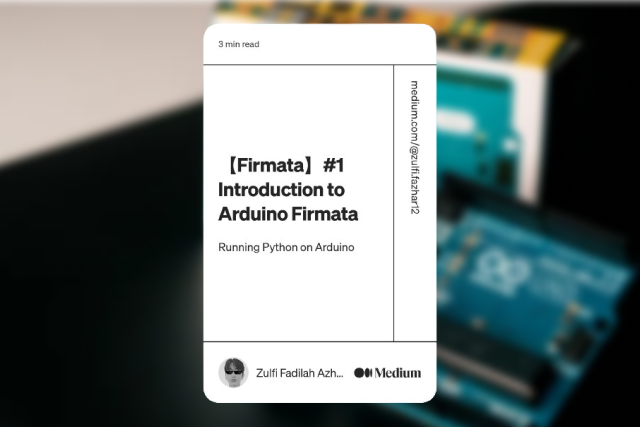
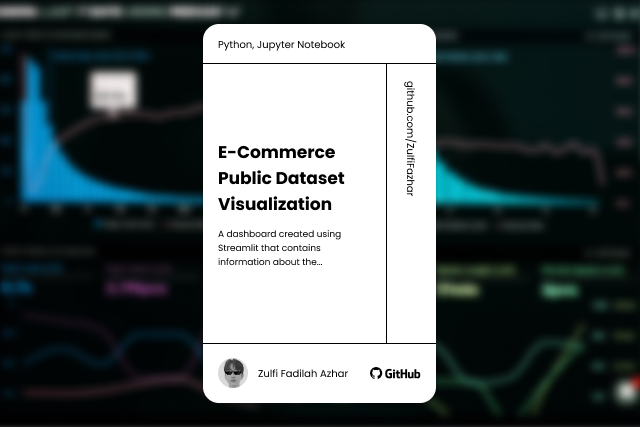
feat: Add Content

diff --git a/index.html b/index.html
@@ -60,7 +60,7 @@
 
             <!-- article 1 -->
             <article class="articles__card">
-              <img src="assets/img/project1.png" alt="" class="articles__img" />
+              <img src="assets/img/Article1.png" alt="" class="articles__img" />
 
               <a href="https://medium.com/@zulfi.fazhar12/cool-way-to-shutdown-your-pc-6532bc555816" target="_blank" class="articles__modal">
                 <div>
@@ -72,7 +72,7 @@
 
             <!-- article 2 -->
             <article class="articles__card">
-              <img src="assets/img/project2.png" alt="" class="articles__img" />
+              <img src="assets/img/Article2.png" alt="" class="articles__img" />
 
               <a href="https://medium.com/@zulfi.fazhar12/firmata-1-introduction-to-arduino-firmata-b4e78654bbaa" target="_blank" class="articles__modal">
                 <div>
@@ -88,24 +88,25 @@
           <div class="projects__content grid" data-content id="projects">
             <!-- project 1 -->
             <article class="articles__card">
-              <img src="assets/img/project1.png" alt="" class="articles__img" />
+              <img src="assets/img/Project1.png" alt="" class="articles__img" />
 
-              <a href="https://medium.com/@zulfi.fazhar12/cool-way-to-shutdown-your-pc-6532bc555816" target="_blank" class="articles__modal">
+              <a href="https://github.com/ZulfiFazhar/Money-Management.git" target="_blank" class="articles__modal">
                 <div>
-                  <span class="articles__subtitle">Medium</span>
-                  <h3 class="articles__title">A cool way to Shutdown your pc</h3>
+                  <span class="articles__subtitle">GitHub</span>
+                  <h3 class="articles__title">UANGKU (Money Management App)</h3>
                 </div>
               </a>
             </article>
 
             <!-- project 2 -->
             <article class="articles__card">
-              <img src="assets/img/project2.png" alt="" class="articles__img" />
+              <img src="assets/img/Project2.png" alt="" class="articles__img" />
 
-              <a href="https://medium.com/@zulfi.fazhar12/firmata-1-introduction-to-arduino-firmata-b4e78654bbaa" target="_blank" class="articles__modal">
+              <a href="https://github.com/ZulfiFazhar/Data-Analysis-Final-Project.git" target="_blank" class="articles__modal">
                 <div>
-                  <span class="articles__subtitle">Medium</span>
-                  <h3 class="articles__title">#1 Introduction to Arduino Firmata</h3>
+                  <span class="articles__subtitle">GitHub</span>
+                  <h3 class="articles__title">E-Commerce Public Dataset
+Visualization</h3>
                 </div>
               </a>
             </article>

diff --git a/assets/css/styles.css b/assets/css/styles.css
@@ -52,6 +52,10 @@
   margin: 0;
 }
 
+html {
+  scroll-behavior: smooth;
+}
+
 body {
   font-family: var(--body-font);
   font-size: var(--normal-font-size);
@@ -167,18 +171,32 @@ body.dark-theme {
   align-items: flex-end;
   justify-content: center;
   transition: 0.3s;
+  border: 5px solid var(--body-color);
 }
 
 .profile__perfil img {
   width: 150px;
 }
 
+@keyframes gradient {
+  0% {
+    background-position: 0% 50%;
+  }
+  50% {
+    background-position: 100% 50%;
+  }
+  100% {
+    background-position: 0% 50%;
+  }
+}
+
 .profile__border {
-  /* border: 5px solid var(--first-color); */
   background: linear-gradient(155deg, rgba(81,110,164,1) 0%, rgba(26,32,78,1) 50%, rgba(123,10,60,1) 100%);
+  background-size: 100% 100%;
+  animation: gradient 2s ease infinite;
   justify-self: center;
-  width: 110px;
-  height: 110px;
+  width: 115px;
+  height: 115px;
   border-radius: 50%;
   display: grid;
   place-items: center;
